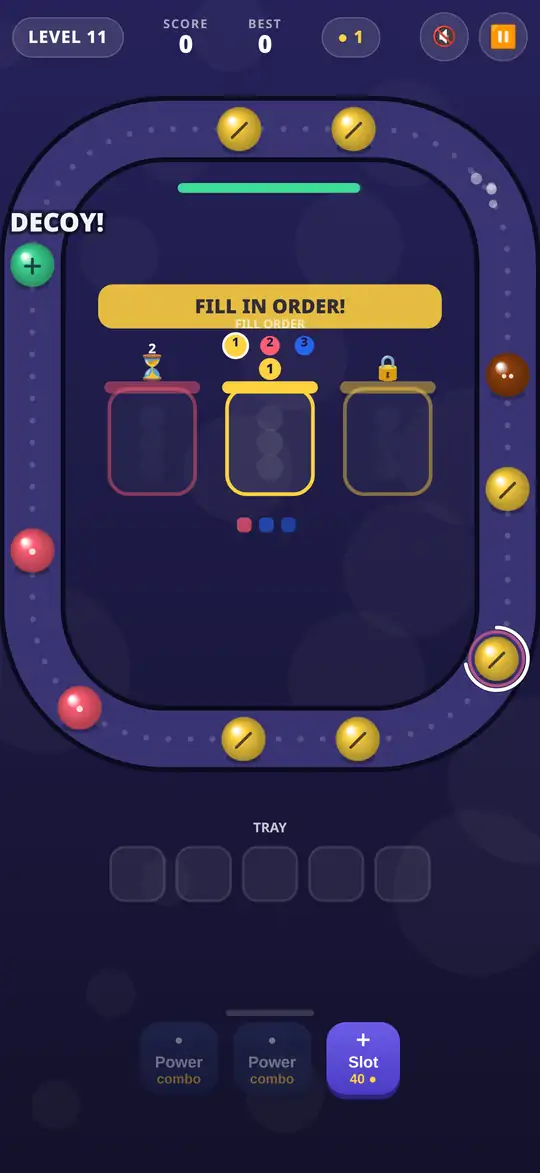
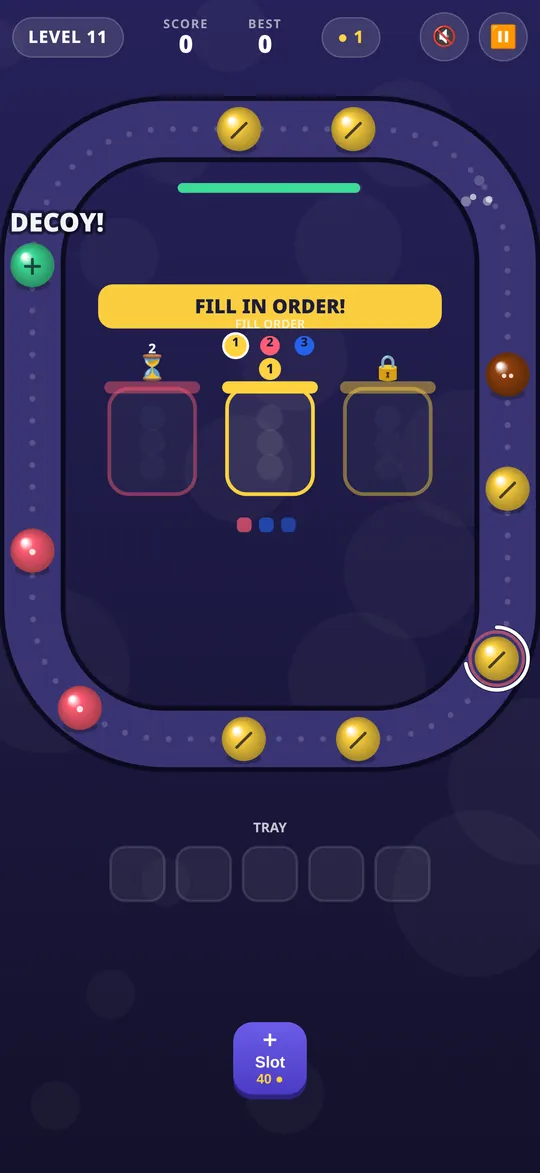
Marble Belt: remove power-ups from site copy

diff --git a/index.html b/index.html
@@ -105,7 +105,7 @@
               <p>Tap &amp; match conveyor puzzle</p>
             </div>
           </div>
-          <p class="deck">Marbles ride around a moving conveyor belt. Tap a marble that matches an open cup and it drops right in. Cups can share a color. New colors drop in as you play — including decoys with no cup — and later on, marbles can swap places or turn gray for a few seconds. Shifter marbles swap color for a score multiplier, more of them and faster as you climb. Chain combos to earn Freeze, Magnet and Clear Stones powers (no ad required), grab short-lived golden marbles, and chase 1–3 stars — with a milestone every 10 levels. Fill every cup before time runs out. Sounds easy, until the belt gets busy.</p>
+          <p class="deck">Marbles ride around a moving conveyor belt. Tap a marble that matches an open cup and it drops right in. Cups can share a color. New colors drop in as you play — including decoys with no cup — and later on, marbles can swap places or turn gray for a few seconds. Shifter marbles swap color for a score multiplier, more of them and faster as you climb. Chain combos for streak coins and PERFECT or QUICK bonuses, grab short-lived golden marbles, and chase 1–3 stars — with a milestone every 10 levels. Fill every cup before time runs out. Sounds easy, until the belt gets busy.</p>
           <ol class="howto">
             <li><span class="n">1</span><span>Tap a marble on the belt to send it to the cup of the same color.</span></li>
             <li><span class="n">2</span><span>Wrong taps go to the tray, so choose carefully.</span></li>
@@ -113,7 +113,7 @@
           </ol>
           <ul class="features">
             <li>One-thumb tap controls and short, quick levels</li>
-            <li>Chain matches for combos, streak coins, and earnable Freeze, Magnet and Clear Stones powers — no ad required</li>
+            <li>Chain matches for combos, streak coins, and PERFECT or QUICK bonuses</li>
             <li>New twists as you climb: arriving colors, decoy colors, marbles that swap places, shifter marbles that get faster and more frequent, occasional FILL IN ORDER challenges, locked cups, stones (and ones that turn gray), rainbows and bombs</li>
             <li>Bright neon look, chunky sound effects and its own music track</li>
             <li>Play offline</li>
